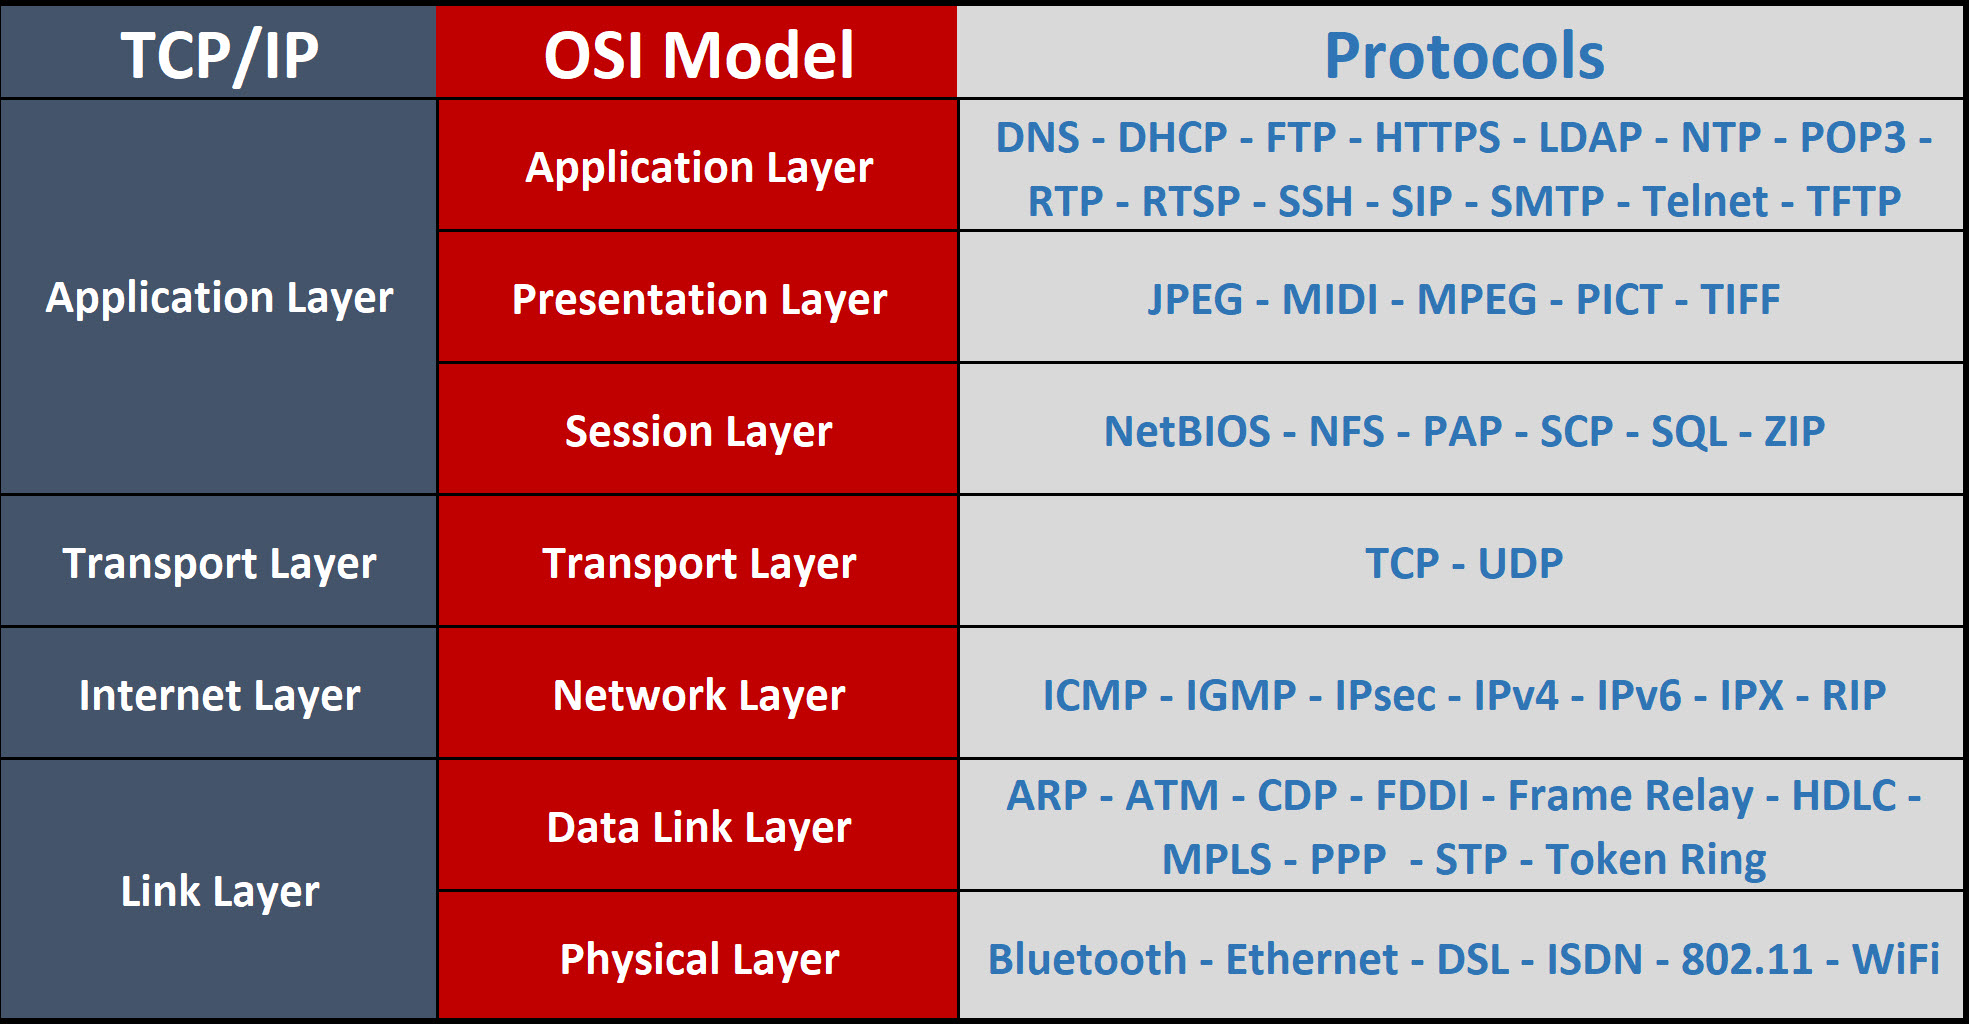
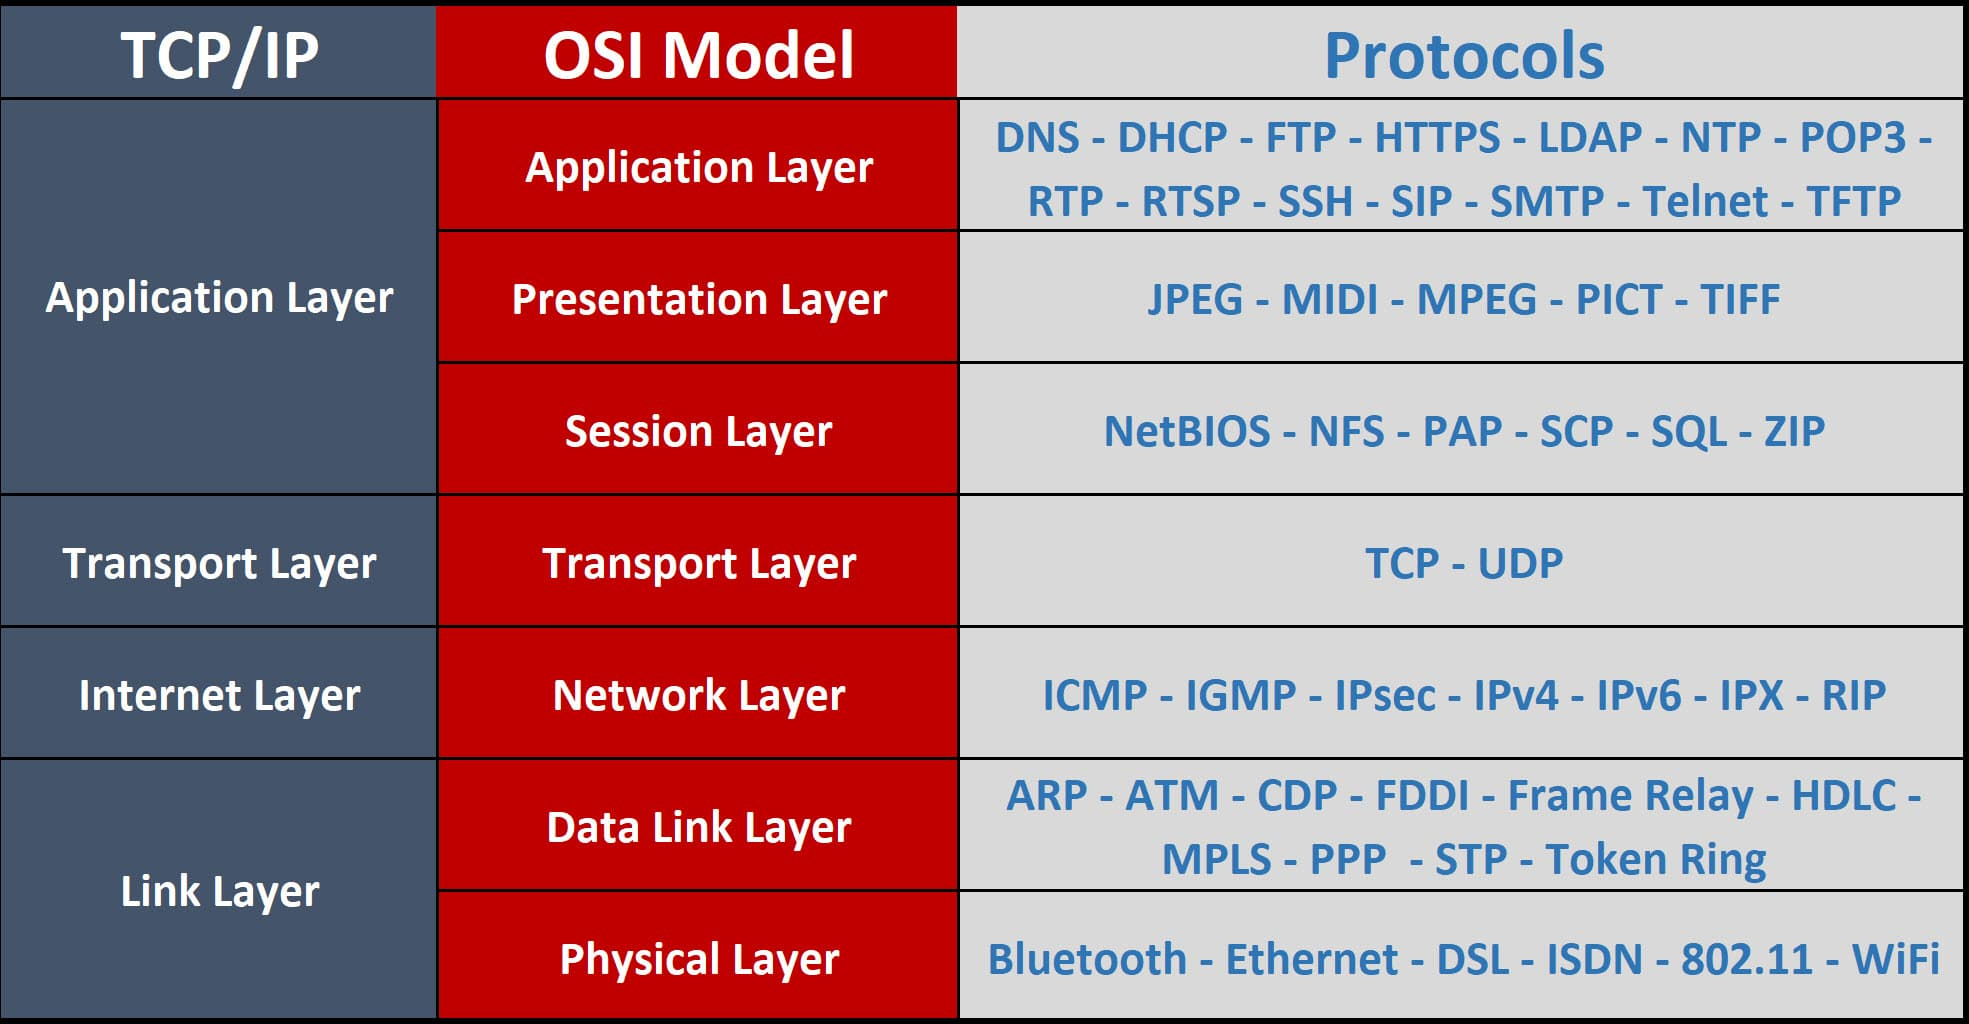
Optimized pics

diff --git a/index.html b/index.html
@@ -10,7 +10,7 @@
 <br />
     <body>
         <h3 align="left">
-            <img src="/pictures/Clinton.png" alt="Clinton Fourie 01" class="Clinton">&nbsp;&nbsp;&nbsp;&nbsp;
+            <img src="/images/Clinton" alt="Clinton Fourie 01" class="Clinton">&nbsp;&nbsp;&nbsp;&nbsp;
             <font face="sans" size="4">
                 <a href="#Home">HOME</a>&nbsp;&nbsp;&nbsp;&nbsp;
                 <a href="#PORTFOLIO">PORTFOLIO</a>&nbsp;&nbsp;&nbsp;&nbsp;
@@ -105,7 +105,7 @@
         <hr align="left" color="#000" width="20%">
     <br />
     <form name="Clinton Fourie" id="contact-form" action="https://formspree.io/clinton.fourieza@outlook.com">
-        method="POST">
+        <method="POST">
         <input type=”text” name=”name”>
         <input type=”email” name=”_replyto”>
         <input type=”submit” value=”Send”>
